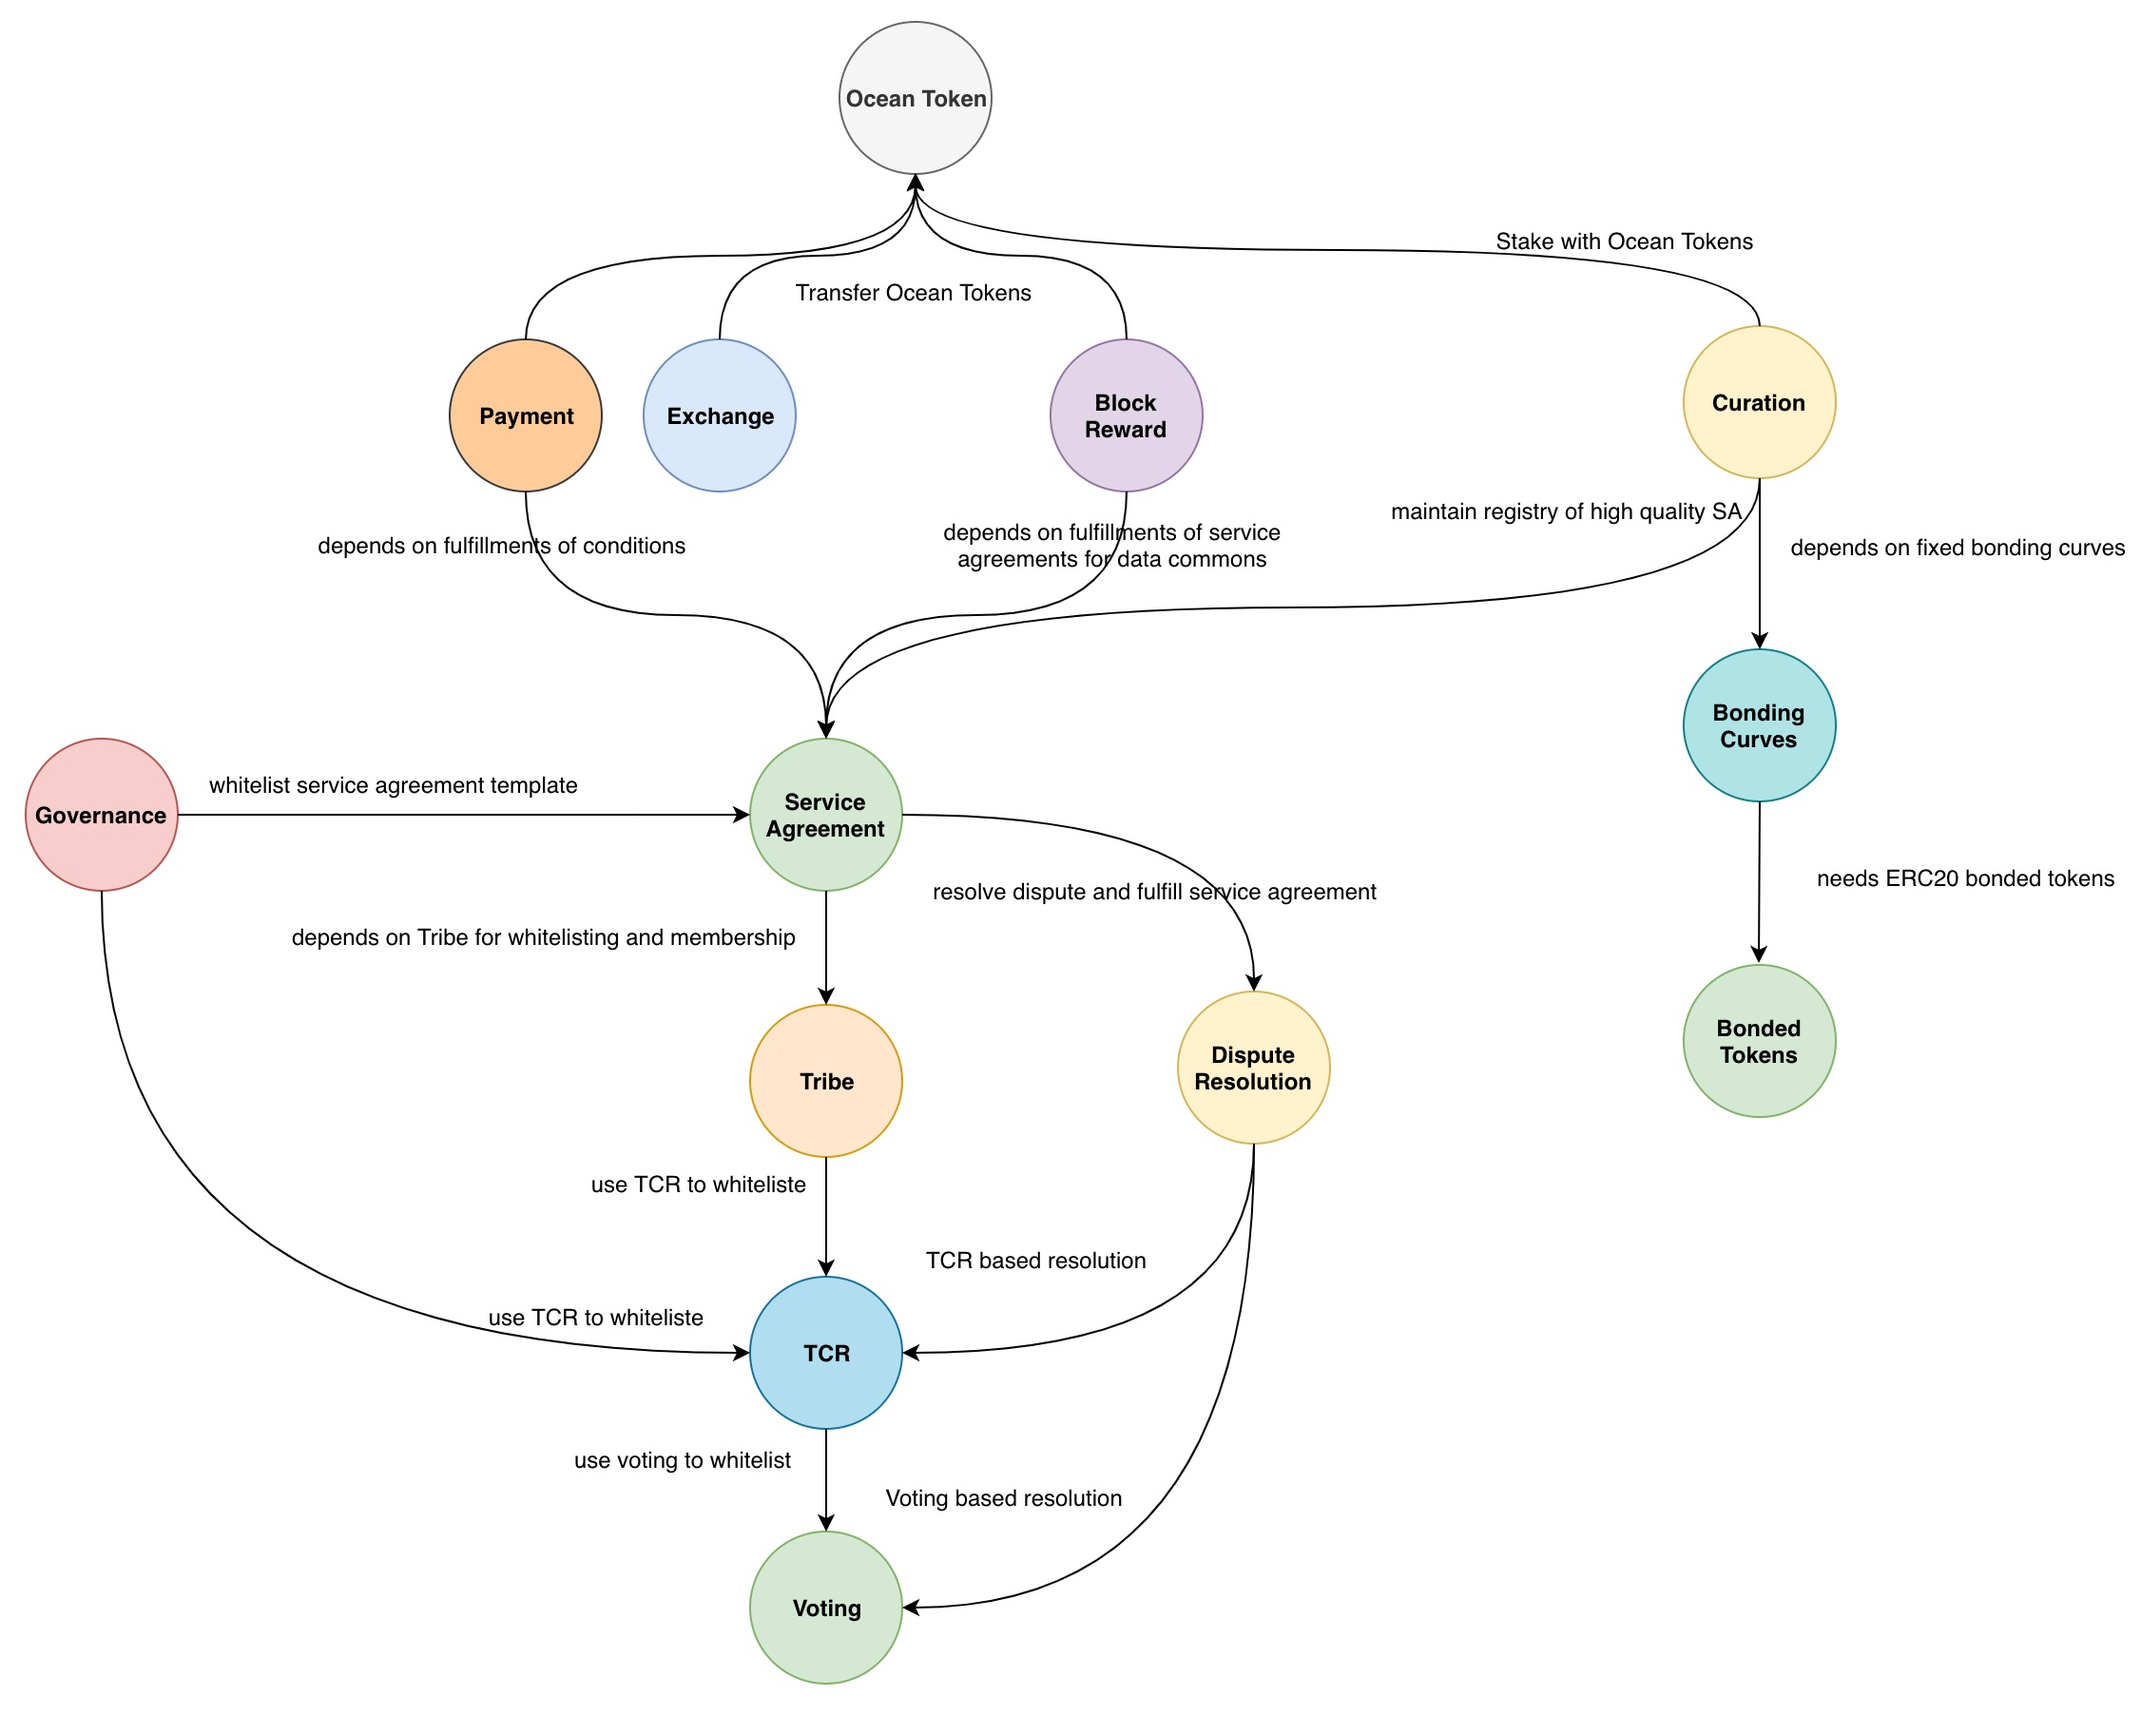
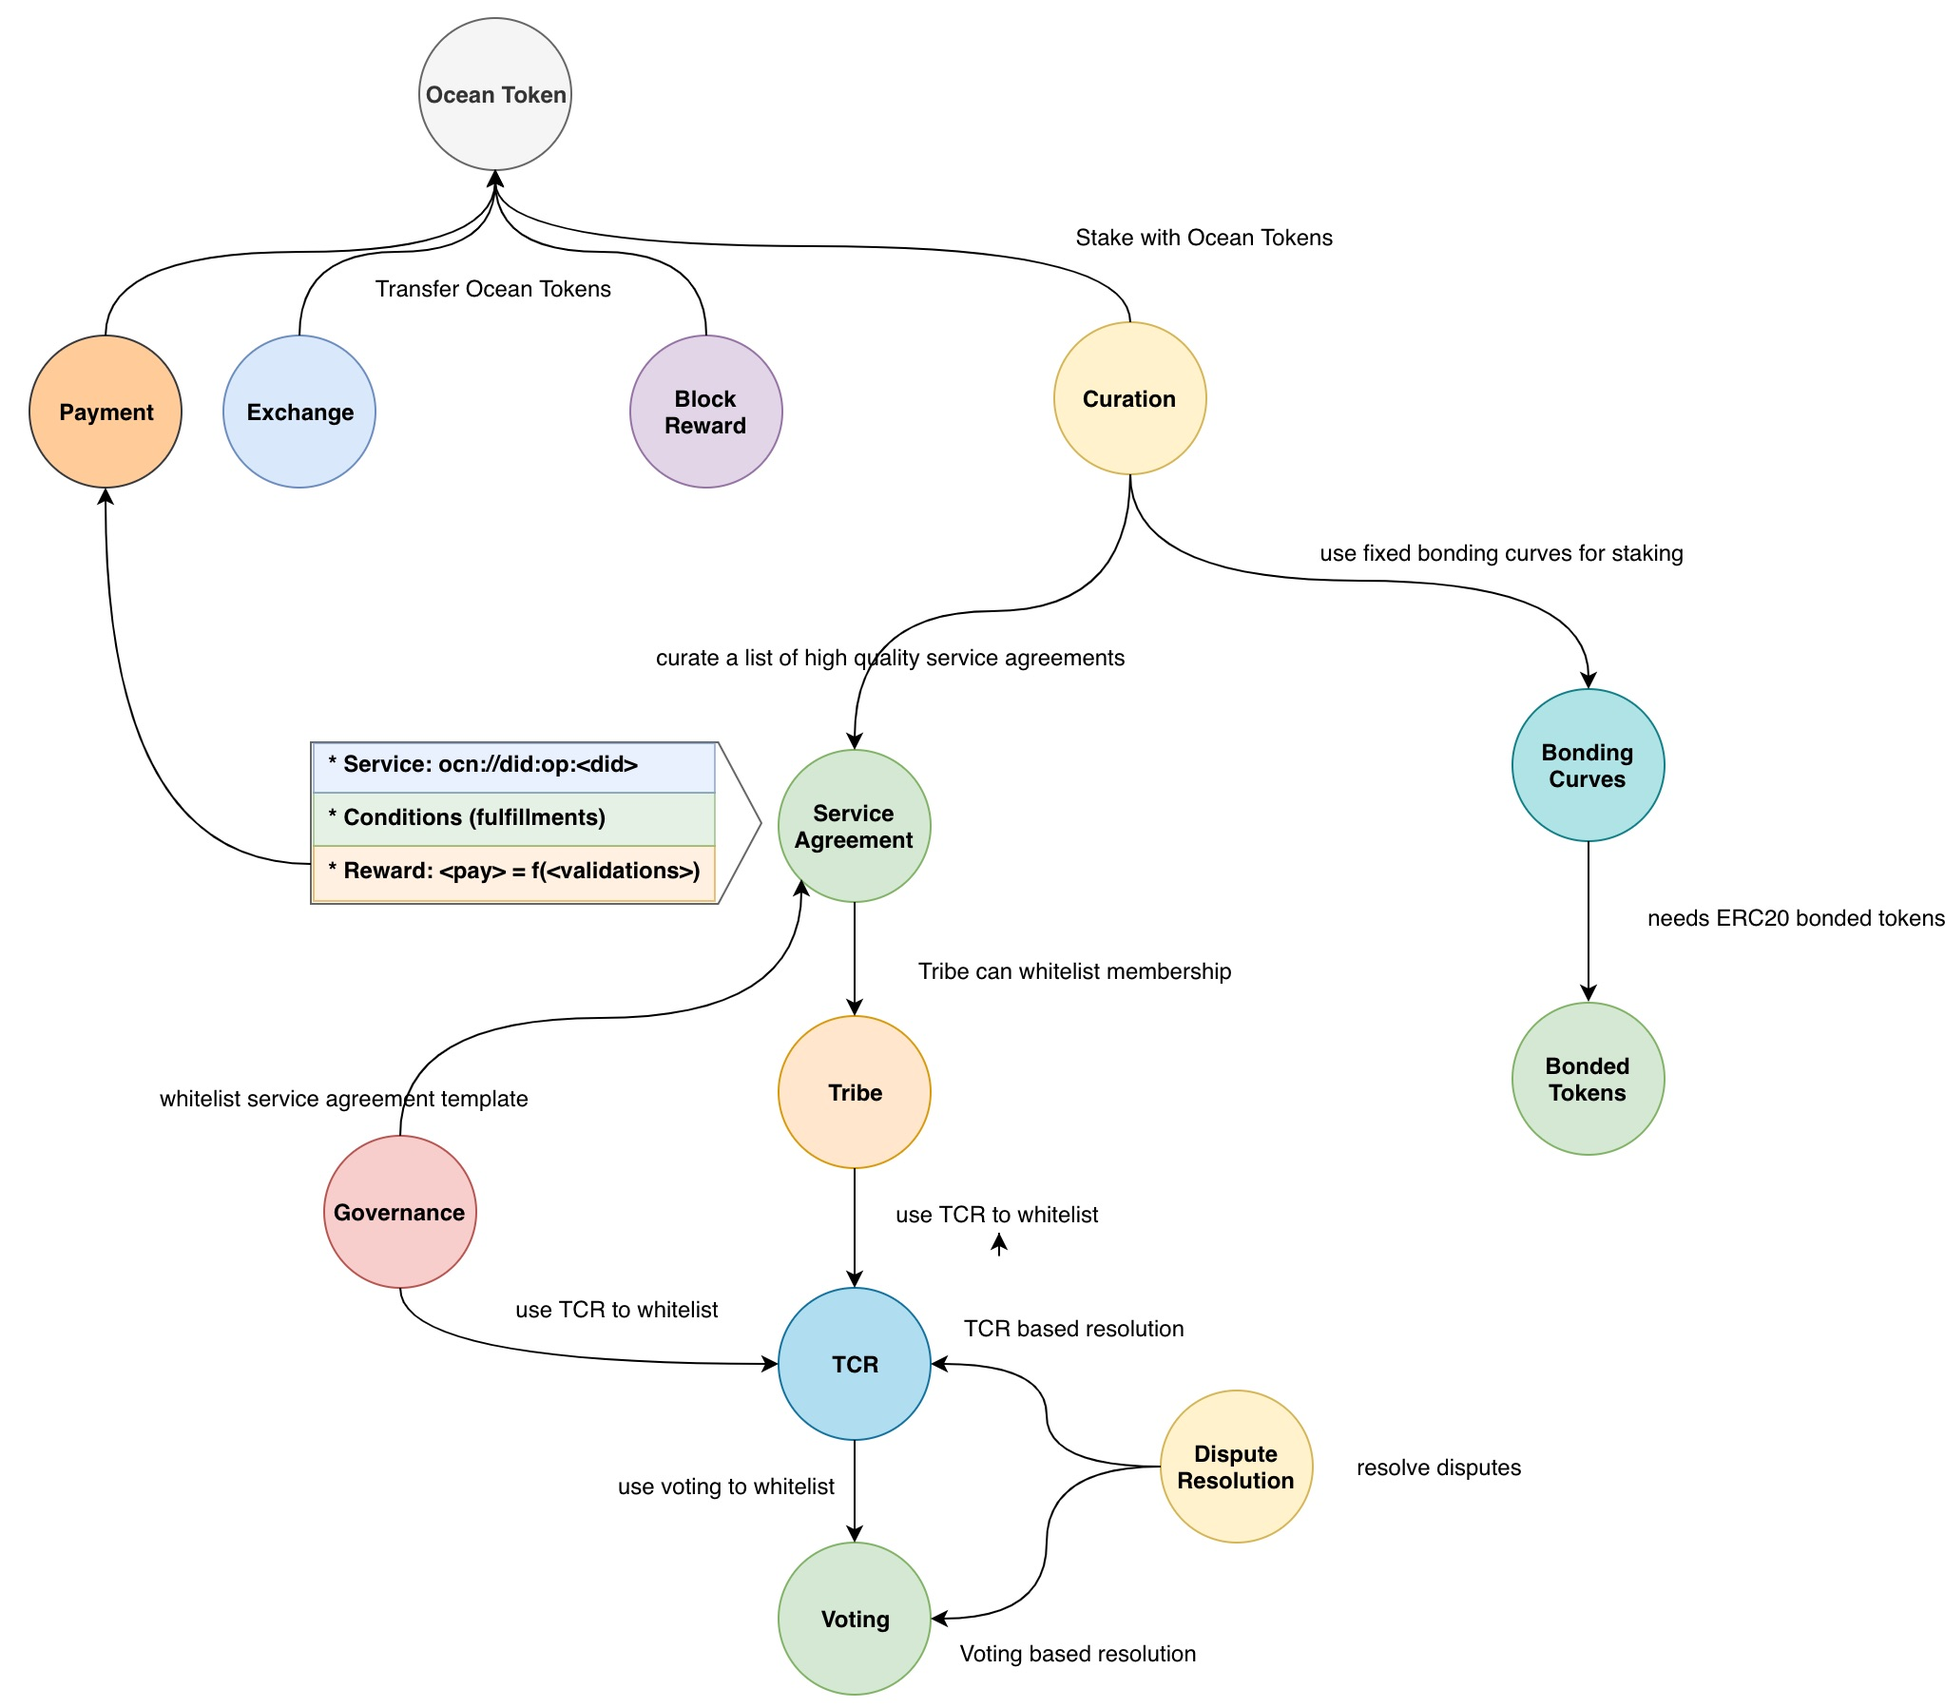
modify SA related materials

diff --git a/doc/refactoring_design.md b/doc/refactoring_design.md
@@ -1,8 +1,8 @@
-# Design of Ocean Network for Tethys
+# Keeper Contract Design for Tethys
 
 ***DISCLAIMER: THIS IS A WORK IN PROGRESS***
 
-This document provides technical details and describes the overall high-level design including all necessary modules in ocean protocol.
+This document provides technical details and describes the high-level design of keeper contract in ocean protocol.
 
 ## 1. Overview
 
@@ -14,10 +14,11 @@ From the top-level point of view, there are total 9 moduels as shown in the belo
 
 * **Ocean Token**: the native ERC20 token in Ocean network
 * **Exchange**: Uniswap-like exchange built inside Ocean, where user can exchange between Ether and Ocean tokens.
-* **Service Agreement**: every service is modeled as a *service agreement*. Please see [SLA.md](https://github.com/oceanprotocol/dev-ocean/blob/feature/SLA-specs/doc/sla.md) and [smart contract prototype](https://github.com/oceanprotocol/keeper-contracts/blob/develop/contracts/SLA/ServiceAgreement.sol) for details. It needs *dispute resolution* to resolve the disputes between consumer and provider. 
+* **Service Agreement**: every service is modeled as a *service agreement*. Please see [SLA.md](https://github.com/oceanprotocol/dev-ocean/blob/feature/SLA-specs/doc/sla.md) and [smart contract prototype](https://github.com/oceanprotocol/keeper-contracts/blob/develop/contracts/SLA/ServiceAgreement.sol) for details.
 * **Tribe**: it controls the registry of membership for each service agreement template; defines TCR based registries for permission, which has whitelisted members who can provide or consume the service.
 * **Curation**: users can curate a registry of high-quality service agreement templates through staking on corresponding bonding curves. It helps consumers discover high-quality assets/services. 
 * **Governance**: it governs the available assets and services in Ocean network. For example, it whitelists new service agreement templates through TCR & Voting. 
+* **Dispute Resolution**: resolves the disputes between consumer and provider through voting or TCR. 
 * **Block Reward**: Ocean network will periodically release block reward (i.e., new minted ERC20 Ocean tokens) to reward the providers of data commons. Note provider of data commons must be randomly selected to fulfill the service requests so that they have the equal probability to receive block rewards.
 * **Access Control**: it is the controller contract which grant access to consumers after depended conditions are fulfilled. The access token can be delivered in two approaches: secret store and OEP10. 
 * **Payment**: it handles all payment processing, including lock payment, release payment and refund payment. 
@@ -64,7 +65,7 @@ function mintTokens() public returns (bool success);
 
 ### 2.2 Block Reward
 
-Block rewards are newly minted Ocean tokens which reward providers of data commons. The overall design is shown as below:
+Block rewards are newly minted Ocean tokens which reward providers of data commons. 
 
 <img src="img/refactoring/blockreward.jpg" width="1000" />
 
@@ -77,9 +78,13 @@ Block rewards are newly minted Ocean tokens which reward providers of data commo
 * This chosen provider receives all tokens in the reward pool;
 * The procedure will repeat for each block interval; if there is no winner, Ocean tokens in the reward pool will accumulate over time until a winner claims the reward.
 
+<img src="img/refactoring/rewardLogic.jpg" width="1000" />
+
 The process within one block interval can be illustrated as below:
 
 <img src="img/refactoring/distributeBR.jpg" width="800" />
+
+
 
 The sample smart contract looks like this:
 
@@ -109,21 +114,27 @@ function sendBlockReward() public returns (bool success){
 ### 2.3 Service Agreement
 Please see [SLA.md](https://github.com/oceanprotocol/dev-ocean/blob/feature/SLA-specs/doc/sla.md) and [smart contract prototype](https://github.com/oceanprotocol/keeper-contracts/blob/develop/contracts/SLA/ServiceAgreement.sol) for details. 
 
+The structre of a Serivce Agreement looks like below:
+
+<img src="img/refactoring/SAStructure.jpg" width="700" />
+
+The key point is to split up the conditions from reward payment as:
+<img src="img/refactoring/SAOverview.jpg" width="1000" />
+
+
 **Some changes to be added:**
 
-1. **Support `AND` and `OR` boolean logic; current prototype only support `AND` logic.**
-<img src="img/refactoring/ORLogic.jpg" width="800" />
 
-2. **`Time Lock` and `Time Out`:**
-<img src="img/refactoring/TimingCondition.jpg" width="800" />
+1. **`Time Lock` and `Time Out`:** Each service condition has `time-lock` and `time-out`. It can only be fulfilled within the time window defined by the starting time point (`time-lock`) and the ending time point (`time-out`).
+<img src="img/refactoring/lifecycle.jpg" width="800" />
 
-3. **support Tri-State: Unknown, True, False**
+2. **support Tri-State: Unknown, True, False**
 <img src="img/refactoring/triState.jpg" width="800" />
 
-4. **New service agreement template must go through governance and TCR to be whitelisted**. 
+3. **New service agreement template must go through governance and TCR to be whitelisted**. 
 <img src="img/refactoring/whitelistSAT.jpg" width="800" />
 
-5. **Add current provider of data commons into block reward candidates if service agreement is fulfilled and verified.**
+4. **Add current provider of data commons into block reward candidates if service agreement is fulfilled and verified.**
 
 
 The sample smart contract looks like below:
@@ -262,18 +273,18 @@ function addConsumer(bytes32 template_Id, address consumer) public returns (bool
 
 Curation is required in Ocean to generate a ranked list of SA sorted from high quality to low. In the decentralized settings, curation could be done with staking mechanism & bonding curves.
 
-A bonding curves is a fixed curve that bonds reserved token (i.e., Ether or Ocean token) with a local ERC20 boned token for a specific SA:
+A bonding curves is a fixed curve that bonds reserved token (i.e., Ether or Ocean token) with a local ERC20 boned token for an associated SA:
 
 <img src="img/refactoring/BC.jpg" width="1000" />
 
 The bonding curves determines the exchange ratio with an analytical formula, which models the price of bonded token as a function of its total supply. Usually price goes up when total supply increases, which indicates strong demand of bonded tokens.
 
-**(1) SA as refungible NFTs**
+**(1) Curation for SA template**
 
-* Each service agreement template is unique in Ocean that can be represented as a unique `ERC721 token`;
 * Each service agreement template has its own fixed bonding curve along with ERC20 bonded tokens;
-* The ERC20 bonded token contract is the owner of ERC721 token (SA template);
-* The mining and burning of ERC20 bonded token is bonded to the fixed bonding curve.
+* Whenever the ERC20 bonded token is minted or burnt, the fixed bonding curve is used to calculate the price of bonded tokens:
+	* calculates how many bonded tokens should be minted for a given amount of Ocean tokens;
+	* calculates how many Ocean tokens should be returned when a given amount of bonded tokens are burnt.
 
 **(2) The design structure**:
 
@@ -289,7 +300,24 @@ The example smart contract functions for curation are below:
 
 
 ```Solidity
-TODO: SA template inherits ERC721 standard and set its owner to be ERC20 bonded token contract.
+struct Curation {
+   // fixed bonding curve
+	BondingCurve private bondingCurve;
+	// bonded token	
+	BondedToken private bondedToken;
+}
+
+// each SA template has its own Bonding Curve and Bonded Token
+mapping(bytes32 => Curation) private curations;
+
+// create new curation market for a new service agreement template
+function createCurationMarket(bytes32 template_Id) public returns (bool);
+
+// buy bonded token from a specific bonding curve
+function mintBondedToken(bytes32 template_Id, uint256 numOceanToken) public returns (uint256 numBondedToken);
+
+// sell bonded token into a specific bonding curve
+function burnBondedToken(bytes32 template_Id, uint256 numBondedToken) public returns (uint256 numOceanToken);
 ```
 
 The Bonded tokens is fungible ERC20 token as following:
